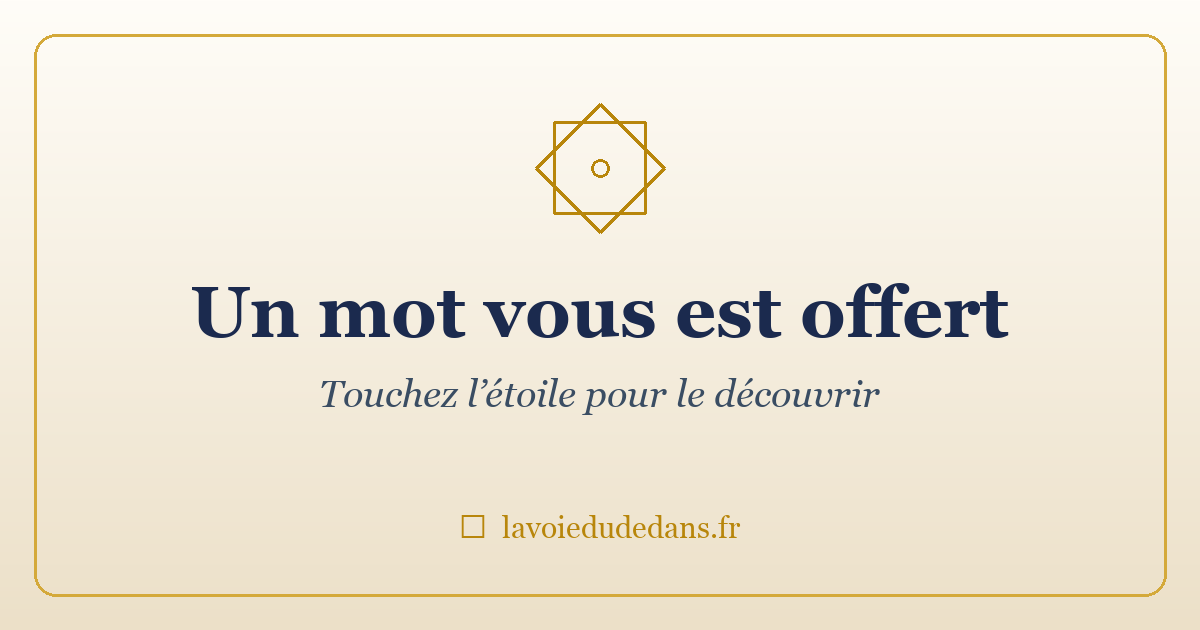
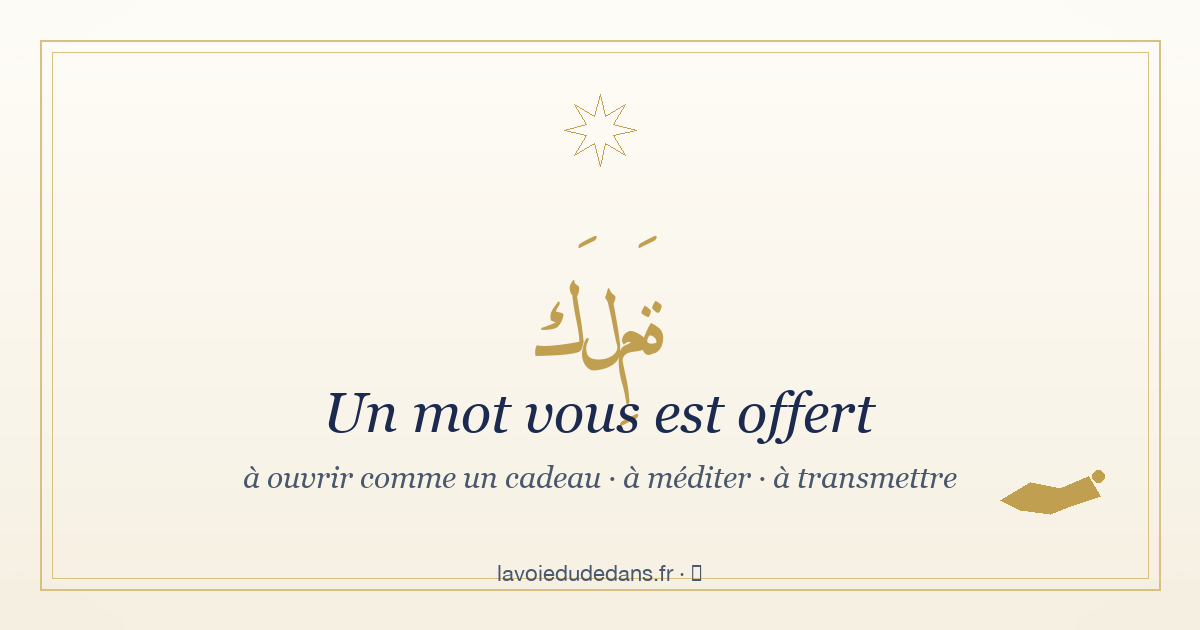
Mot du jour: seven contemplative refinements (intention, breath, dove flight, varied teasers, recipient returns, new OG image)

diff --git a/assets/js/mot-du-jour.js b/assets/js/mot-du-jour.js
@@ -23,7 +23,13 @@
     draw: 'Draw', redraw: 'Draw another', sendGift: 'Send this gift',
     deeper: 'Go further →', yourTurn: 'In turn, offer a word →',
     anotherWord: 'Another word ✦', anotherEyebrow: 'Another word for you', anotherInvite: 'Another word comes to you.',
-    teaser: 'A word awaits you — open it', giftTitle: 'A word for you', copied: 'Link copied ✓'
+    teaser: 'A word awaits you — open it', giftTitle: 'A word for you', copied: 'Link copied ✓',
+    intentionTitle: 'For whom — for what?', intentionAll: 'At random', intentionSouffre: 'Someone in pain', intentionPaix: 'Seeking peace', intentionDoute: 'In doubt', intentionEveil: 'Awakening', intentionJoie: 'In joy',
+    breathe: 'Breathe. Think of the person. Touch when ready.',
+    sent: 'The word has taken flight.',
+    offerBack: 'Offer a word in return',
+    goFurther: 'Continue along the way →',
+    teasers: ['A word awaits you — open it', 'A lamp for your evening', 'For you, in the hollow of this hour', 'A word that passes through me to you', 'A faint light from afar', 'To inhabit this moment', 'A gentle sign', 'A light door to push', 'Open it when the moment comes']
   } : {
     landingTitle: 'Un mot de la voie', landingSub: 'Pour vous, ou à offrir.',
     doorReceive: 'Recevoir mon mot du jour', doorReceiveSub: 'Un mot à méditer, aujourd’hui.',
@@ -35,7 +41,13 @@
     draw: 'Tirer', redraw: 'Tirer un autre', sendGift: 'Envoyer ce cadeau',
     deeper: 'Aller plus loin →', yourTurn: 'À votre tour, offrir un mot →',
     anotherWord: 'Un autre mot ✦', anotherEyebrow: 'Un autre mot pour vous', anotherInvite: 'Un autre mot vient à vous.',
-    teaser: 'Un mot t’attend — ouvre-le', giftTitle: 'Un mot t’est offert', copied: 'Lien copié ✓'
+    teaser: 'Un mot t’attend — ouvre-le', giftTitle: 'Un mot t’est offert', copied: 'Lien copié ✓',
+    intentionTitle: 'Pour qui — pour quoi ?', intentionAll: 'Au hasard', intentionSouffre: 'Quelqu’un qui souffre', intentionPaix: 'En quête de paix', intentionDoute: 'Dans le doute', intentionEveil: 'En éveil', intentionJoie: 'Dans la joie',
+    breathe: 'Respirez. Pensez à la personne. Touchez quand vous êtes prêt(e).',
+    sent: 'Le mot a pris son envol.',
+    offerBack: 'Offrir un mot en retour',
+    goFurther: 'Continuer le chemin →',
+    teasers: ['Un mot t’attend — ouvre-le', 'Une lampe pour ton soir', 'Pour toi, dans le creux de cette heure', 'Une parole qui passe par moi pour toi', 'Un éclat venu de loin', 'Pour habiter l’instant', 'Un signe doux', 'Une porte légère, à pousser', 'À ouvrir quand le moment vient']
   };
 
   var STAR = '<svg viewBox="0 0 100 100" fill="none" stroke="currentColor" stroke-width="1.4" aria-hidden="true">' +
@@ -74,10 +86,74 @@
       f += '<a class="mdj-btn mdj-btn--gold" href="?mode=encore">' + T.anotherWord + '</a>';
       f += '<a class="mdj-btn" href="?mode=offrir">' + T.doorOffer + ' →</a>';
     } else if (mode === 'recv') {
+      f += '<a class="mdj-btn mdj-btn--gold" href="?mode=offrir">' + DOVE + ' ' + T.offerBack + '</a>';
       f += '<a class="mdj-btn" href="?mode=jour">' + T.doorReceive + '</a>';
-      f += '<a class="mdj-btn" href="?mode=offrir">' + T.yourTurn + '</a>';
+      f += '<a class="mdj-btn mdj-btn--ghost" href="../../index.html">' + T.goFurther + '</a>';
     }
     return f;
+  }
+
+  // ----- intentions : filtrage doux par mots-clés -----
+  var INTENTION_KEYWORDS = {
+    souffre: ['souffr','peine','douleur','épreuve','perd','perte','deuil','larme','consol','triste','suffer','grief','consol','sorrow','tear'],
+    paix:    ['paix','calme','silence','tranquill','quiétude','repos','sérénit','salam','sakīna','apais','peace','quiet','calm','still'],
+    doute:   ['doute','interrog','question','perplex','sens','sentier','chemin','cherch','doubt','wonder','ask','seek'],
+    eveil:   ['éveil','éclair','lumière','vrai','réalité','révèl','dévoil','nūr','tajall','présence','awak','light','real','presen','reveal'],
+    joie:    ['joie','gratitude','remerc','beauté','émerveill','danse','chant','jamāl','allègr','joy','grat','beauty','dance','wonder']
+  };
+  function filterByIntention(pool, intention) {
+    if (!intention || intention === 'all') return pool;
+    var kws = INTENTION_KEYWORDS[intention] || [];
+    var scored = [];
+    pool.forEach(function (it) {
+      var content = ((it.texte || '') + ' ' + (it.commentaire || '') + ' ' + (it.titre || '')).toLowerCase();
+      var s = 0;
+      for (var i = 0; i < kws.length; i++) { if (content.indexOf(kws[i]) !== -1) s++; }
+      if (s > 0) scored.push({ it: it, s: s });
+    });
+    if (!scored.length) return pool; // repli silencieux
+    // pondéré : on tire dans le pool des mieux notés (top 30%)
+    scored.sort(function (a, b) { return b.s - a.s; });
+    var top = scored.slice(0, Math.max(5, Math.ceil(scored.length * 0.3)));
+    return top.map(function (x) { return x.it; });
+  }
+
+  // ----- pause respiration -----
+  function breatheThen(callback) {
+    var box = document.createElement('div');
+    box.className = 'mdj-breath';
+    box.innerHTML = '<div class="mdj-breath__inner"><div class="mdj-breath__circle"></div><p class="mdj-breath__text">' + T.breathe + '</p></div>';
+    document.body.appendChild(box);
+    var done = false;
+    function finish() {
+      if (done) return; done = true;
+      box.classList.add('is-gone');
+      setTimeout(function () { if (box.parentNode) box.parentNode.removeChild(box); callback(); }, 500);
+    }
+    box.addEventListener('click', finish);
+    setTimeout(finish, 3500);
+  }
+
+  // ----- colombe qui s'envole -----
+  function doveFly() {
+    var d = document.createElement('div');
+    d.className = 'mdj-dove-fly';
+    d.innerHTML = DOVE;
+    document.body.appendChild(d);
+    setTimeout(function () { if (d.parentNode) d.parentNode.removeChild(d); }, 2400);
+    var msg = document.createElement('div');
+    msg.className = 'mdj-sent-msg';
+    msg.textContent = T.sent;
+    document.body.appendChild(msg);
+    setTimeout(function () {
+      msg.classList.add('is-fade');
+      setTimeout(function () { if (msg.parentNode) msg.parentNode.removeChild(msg); }, 700);
+    }, 2200);
+  }
+
+  function pickTeaser() {
+    var arr = T.teasers || [T.teaser];
+    return arr[Math.floor(Math.random() * arr.length)];
   }
 
   function revealView(it, eyebrow, invite, mode) {
@@ -94,11 +170,14 @@
   }
 
   function shareLink(url, btn) {
+    var teaser = pickTeaser();
+    function whenSent() { doveFly(); }
     if (navigator.share) {
-      navigator.share({ title: T.giftTitle, text: T.teaser + ' 🕊', url: url }).catch(function () {});
+      navigator.share({ title: T.giftTitle, text: teaser + ' 🕊', url: url }).then(whenSent).catch(function () {});
     } else if (navigator.clipboard) {
-      navigator.clipboard.writeText(T.teaser + ' ' + url).then(function () {
+      navigator.clipboard.writeText(teaser + ' ' + url).then(function () {
         if (btn) { var o = btn.innerHTML; btn.innerHTML = T.copied; setTimeout(function () { btn.innerHTML = o; }, 1800); }
+        whenSent();
       });
     } else { window.prompt(EN ? 'Copy this link:' : 'Copiez ce lien :', url); }
   }
@@ -127,17 +206,43 @@
   }
 
   function offerView(pool) {
+    var intents = [
+      ['all', T.intentionAll, '✦'],
+      ['paix', T.intentionPaix, '☮'],
+      ['souffre', T.intentionSouffre, '☾'],
+      ['doute', T.intentionDoute, '?'],
+      ['eveil', T.intentionEveil, '☀'],
+      ['joie', T.intentionJoie, '❀']
+    ];
+    var chips = intents.map(function (x) {
+      var cls = x[0] === 'all' ? 'mdj-chip is-active' : 'mdj-chip';
+      return '<button type="button" class="' + cls + '" data-intent="' + x[0] + '"><span class="mdj-chip__ico">' + x[2] + '</span> ' + esc(x[1]) + '</button>';
+    }).join('');
     mount.innerHTML =
       '<div class="mdj-offer"><div class="mdj-eyebrow">' + T.offerTitle + '</div>' +
         '<p class="mdj-offer-sub">' + T.offerSub + '</p>' +
+        '<div class="mdj-intention"><div class="mdj-intention__label">' + T.intentionTitle + '</div>' +
+          '<div class="mdj-chips">' + chips + '</div>' +
+        '</div>' +
         '<div class="mdj-dove-big">' + DOVE + '</div>' +
         '<button type="button" class="mdj-btn mdj-btn--gold" id="mdj-draw">' + T.draw + '</button>' +
         '<div id="mdj-drawn"></div></div>';
-    document.getElementById('mdj-draw').addEventListener('click', function () { drawAndShow(pool); });
+    var current = 'all';
+    document.querySelectorAll('.mdj-chip').forEach(function (b) {
+      b.addEventListener('click', function () {
+        document.querySelectorAll('.mdj-chip').forEach(function (x) { x.classList.remove('is-active'); });
+        b.classList.add('is-active');
+        current = b.getAttribute('data-intent');
+      });
+    });
+    document.getElementById('mdj-draw').addEventListener('click', function () {
+      breatheThen(function () { drawAndShow(pool, current); });
+    });
   }
 
-  function drawAndShow(pool) {
-    var it = pool[Math.floor(Math.random() * pool.length)];
+  function drawAndShow(pool, intention) {
+    var filtered = filterByIntention(pool, intention);
+    var it = filtered[Math.floor(Math.random() * filtered.length)];
     var url = location.origin + location.pathname + '?id=' + encodeURIComponent(it.id);
     var box = document.getElementById('mdj-drawn');
     box.innerHTML =
@@ -148,7 +253,7 @@
         '</div></article>';
     var sendBtn = document.getElementById('mdj-send');
     sendBtn.addEventListener('click', function () { shareLink(url, sendBtn); });
-    document.getElementById('mdj-redraw').addEventListener('click', function () { drawAndShow(pool); });
+    document.getElementById('mdj-redraw').addEventListener('click', function () { breatheThen(function () { drawAndShow(pool, intention); }); });
     box.scrollIntoView({ behavior: 'smooth', block: 'center' });
   }
 

diff --git a/assets/css/mot-du-jour.css b/assets/css/mot-du-jour.css
@@ -195,3 +195,95 @@
   font-family: var(--font-sans); font-size: 0.78rem; letter-spacing: 0.06em;
   color: var(--ink-mute); margin-top: var(--space-md);
 }
+
+/* ============================================================
+   Intentions, respiration, colombe qui s'envole
+   ============================================================ */
+
+/* — chips d'intention — */
+.mdj-intention { margin: var(--space-md) auto var(--space-lg); max-width: 28rem; }
+.mdj-intention__label {
+  font-family: var(--font-sans); font-size: 0.74rem; letter-spacing: 0.14em;
+  text-transform: uppercase; color: var(--gold); text-align: center;
+  margin-bottom: 0.6rem;
+}
+.mdj-chips { display: flex; flex-wrap: wrap; gap: 0.4rem; justify-content: center; }
+.mdj-chip {
+  font-family: var(--font-display); font-size: 0.92rem; line-height: 1;
+  color: var(--ink-soft);
+  background: var(--paper); border: 1px solid var(--line); border-radius: 999px;
+  padding: 0.5rem 0.9rem; cursor: pointer;
+  transition: border-color 0.2s, color 0.2s, background 0.2s, transform 0.15s;
+}
+.mdj-chip:hover { border-color: var(--gold); color: var(--ink-title); transform: translateY(-1px); }
+.mdj-chip.is-active { background: var(--gold); color: var(--paper); border-color: var(--gold); }
+.mdj-chip__ico { font-size: 0.9em; margin-right: 0.2rem; }
+
+/* — pause respiration — */
+.mdj-breath {
+  position: fixed; inset: 0;
+  background: radial-gradient(60% 60% at 50% 50%, rgba(255,253,248,0.96) 0%, rgba(247,243,234,0.96) 100%);
+  display: flex; align-items: center; justify-content: center;
+  z-index: 2000; cursor: pointer;
+  animation: mdjFadeIn 0.5s ease both;
+}
+.mdj-breath.is-gone { animation: mdjFadeOut 0.5s ease both; }
+@keyframes mdjFadeIn { from { opacity: 0; } to { opacity: 1; } }
+@keyframes mdjFadeOut { from { opacity: 1; } to { opacity: 0; } }
+.mdj-breath__inner { text-align: center; max-width: 24rem; padding: var(--space-lg); }
+.mdj-breath__circle {
+  width: 100px; height: 100px; margin: 0 auto var(--space-lg);
+  border-radius: 50%;
+  background: radial-gradient(circle, rgba(192,160,80,0.18) 0%, rgba(192,160,80,0) 70%);
+  border: 1px solid var(--gold-soft);
+  animation: mdjBreath 3s ease-in-out infinite;
+}
+@keyframes mdjBreath {
+  0%, 100% { transform: scale(0.85); opacity: 0.5; }
+  50%      { transform: scale(1.15); opacity: 1; }
+}
+.mdj-breath__text {
+  font-family: var(--font-display); font-style: italic;
+  font-size: 1.1rem; line-height: 1.6;
+  color: var(--ink-soft);
+}
+
+/* — colombe qui s'envole — */
+.mdj-dove-fly {
+  position: fixed; left: 0; top: 0;
+  z-index: 1500; pointer-events: none;
+  color: var(--gold);
+  animation: mdjDoveFly 2.4s cubic-bezier(.32,.18,.6,1) forwards;
+}
+.mdj-dove-fly svg { width: 56px; height: 56px; display: block; filter: drop-shadow(0 4px 12px rgba(192,160,80,0.4)); }
+@keyframes mdjDoveFly {
+  0%   { left: -8vw; top: 65vh; transform: rotate(-6deg) scale(0.7); opacity: 0; }
+  10%  { opacity: 1; }
+  50%  { top: 28vh; transform: rotate(8deg) scale(1.1); }
+  100% { left: 108vw; top: 12vh; transform: rotate(-8deg) scale(0.85); opacity: 0; }
+}
+
+/* — message « le mot a pris son envol » — */
+.mdj-sent-msg {
+  position: fixed; left: 50%; bottom: 12vh; transform: translateX(-50%);
+  z-index: 1500;
+  font-family: var(--font-display); font-style: italic;
+  font-size: 1.15rem; color: var(--ink-title);
+  background: var(--paper);
+  padding: 0.8rem 1.6rem;
+  border-radius: 999px;
+  border: 1px solid var(--gold-soft);
+  box-shadow: 0 12px 30px -16px rgba(27,42,78,0.3);
+  animation: mdjSentIn 0.6s cubic-bezier(.2,.7,.2,1) both;
+}
+.mdj-sent-msg.is-fade { animation: mdjFadeOut 0.7s ease both; }
+@keyframes mdjSentIn { from { opacity: 0; transform: translate(-50%, 10px); } to { opacity: 1; transform: translate(-50%, 0); } }
+
+/* — bouton fantôme (pour le lien doux "Continuer le chemin") — */
+.mdj-btn--ghost { background: transparent; color: var(--ink-mute); border: 1px solid transparent; }
+.mdj-btn--ghost:hover { color: var(--gold); border-color: var(--gold-soft); }
+
+@media (prefers-reduced-motion: reduce) {
+  .mdj-breath__circle { animation: none; }
+  .mdj-dove-fly { animation-duration: 0.6s; }
+}

diff --git a/pages/mot-du-jour/index.html b/pages/mot-du-jour/index.html
@@ -20,7 +20,7 @@
   <link rel="stylesheet" href="../../assets/css/layout.css" />
   <link rel="stylesheet" href="../../assets/css/components.css" />
   <link rel="stylesheet" href="../../assets/css/bilingue.css" />
-  <link rel="stylesheet" href="../../assets/css/mot-du-jour.css?v=6" />
+  <link rel="stylesheet" href="../../assets/css/mot-du-jour.css?v=7" />
 
   <script async src="https://www.googletagmanager.com/gtag/js?id=G-B7WRGPZMT3"></script>
   <script>